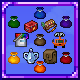
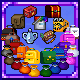
Vacuum Bags 1.0.1.1 (31AUG23)     -Removed a ton of items from Ammo Bag "White list" that shouldn't have been there like wood and other blocks.(<« Myuji »> - Steam)     -Renamed Wall-Baggie back to Wall-Er and updated sprite (also created by @KingJoshington)

diff --git a/Items/AmmoBag.cs b/Items/AmmoBag.cs
@@ -176,7 +176,6 @@ namespace VacuumBags.Items
 				
 			};
 
-			SortedSet<int> stuffCannonItems = new(ItemID.Sets.ItemsForStuffCannon);
 			for (int i = 0; i < ItemLoader.ItemCount; i++) {
 				Item item = ContentSamples.ItemsByType[i];
 				if (item.NullOrAir())
@@ -206,11 +205,6 @@ namespace VacuumBags.Items
 						added = true;
 						break;
 					}
-				}
-
-				if (stuffCannonItems.Contains(item.type)) {
-					allowedItems.Add(item.type);
-					continue;
 				}
 
 				ItemGroupAndOrderInGroup group = new ItemGroupAndOrderInGroup(item);

diff --git a/Readme.md b/Readme.md
@@ -7,7 +7,7 @@ Vacuum Bags (100 inventory slots)  (Designed by @KingJoshington)
 	Herb Satchel - Seeds/Plants
 	Paint Bucket - Paint
 	Potion Flask - Potions/Food
-	Wall-Baggie - Walls
+	Wall-Er - Walls
 
 	These bags automatically pick up items if vacuum is toggled on if the item is allowed in the bag.
 
